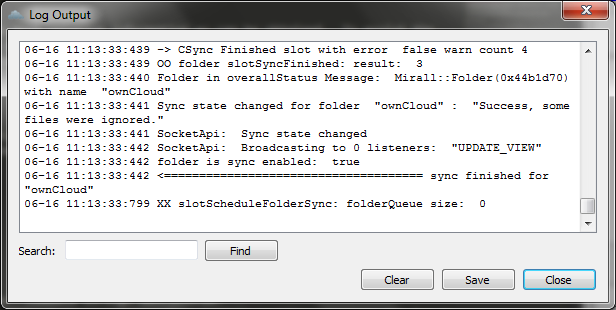
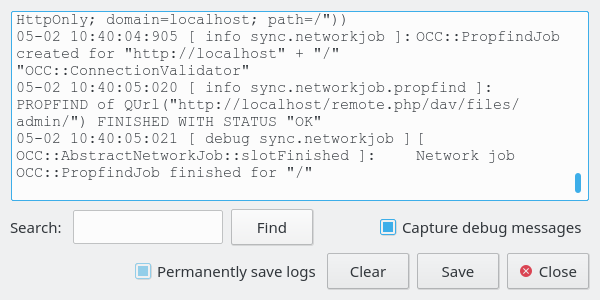
Doc: Adjust step-by-step guide for creating log files #6442

diff --git a/src/libsync/propagateremotemove.cpp b/src/libsync/propagateremotemove.cpp
@@ -80,6 +80,8 @@ void PropagateRemoteMove::start()
 
     qCDebug(lcPropagateRemoteMove) << _item->_file << _item->_renameTarget;
 
+    Utility::sleep(10);
+
     QString targetFile(propagator()->getFilePath(_item->_renameTarget));
 
     if (_item->_file == _item->_renameTarget) {

diff --git a/doc/troubleshooting.rst b/doc/troubleshooting.rst
@@ -107,14 +107,25 @@ Log Files
 
 Effectively debugging software requires as much relevant information as can be
 obtained.  To assist the ownCloud support personnel, please try to provide as
-many relevant logs as possible. Log output can help  with tracking down
+many relevant logs as possible. Log output can help with tracking down
 problems and, if you report a bug, log output can help to resolve an issue more
 quickly.
+
+The client log file is often the most helpful log to provide.
 
 Obtaining the Client Log File
 ~~~~~~~~~~~~~~~~~~~~~~~~~~~~~
 
-To obtain the client log file:
+There are several ways to produce log files. The most commonly useful is enabling
+logging to a temporary directory, described first.
+
+Note: Client log files contain file and folder names, metadata, server urls and
+other private information. Only upload them if you are comfortable sharing the
+information. Logs are often essential for tracking down a problem though, so
+please consider providing them to developers privately.
+
+Logging to a Temporary Directory
+^^^^^^^^^^^^^^^^^^^^^^^^^^^^^^^^
 
 1. Open the ownCloud Desktop Client.
 
@@ -124,37 +135,22 @@ To obtain the client log file:
 
   .. image:: images/log_output_window.png
 
-3. Click the 'Save' button.
+3. Enable the 'Permanently save logs' checkbox.
 
-  The Save Log File window opens.
+4. Look at its tooltip and take note of the directory the logs will be saved to.
 
-  .. image:: images/save_log_file.png
+5. Navigate to this directory.
 
-4. Migrate to a location on your system where you want to save your log file.
+6. Select the logs for the timeframe in which the issue occurred.
 
-5. Name the log file and click the 'Save' button.
-
-  The log file is saved in the location specified.
-
-Alternatively, you can launch the ownCloud Log Output window using the
-``--logwindow`` command. After issuing this command, the Log Output window
-opens to show the current log. You can then follow the same procedures
-mentioned above to save the log to a file.
-
-  .. note:: You can also open a log window for an already running session, by
-     restarting the client using the following command:
-
-     * Windows: ``C:\Program Files (x86)\ownCloud\owncloud.exe --logwindow``
-     * Mac OS X: ``/Applications/owncloud.app/Contents/MacOS/owncloud --logwindow``
-     * Linux: ``owncloud --logwindow``
+Note that the choice to enable logging will be persist across client restarts.
 
 Saving Files Directly
-~~~~~~~~~~~~~~~~~~~~~
+^^^^^^^^^^^^^^^^^^^^^
 
-The ownCloud client enables you to save log files directly to a predefined file
-or directory.  This is a useful option for troubleshooting sporadic issues as
-it enables you to log large amounts of data and bypasses the limited buffer
-settings associated with the log window.
+The ownCloud client allows you to save log files directly to a custom file
+or directory.  This is a useful option for easily reproducible problems, as well
+as for cases where you want logs to be saved to a different location.
 
 To save log files to a file or a directory:
 
@@ -169,6 +165,8 @@ the amount of data that accumulates over time, you can specify the
 ``--logexpire <hours>`` command. When combined with the ``--logdir`` command,
 the client automatically erases saved log data in the directory that is older
 than the specified number of hours.
+
+Adding the ``--logdebug`` flag increases the verbosity of the generated log files.
 
 As an example, to define a test where you keep log data for two days, you can
 issue the following command: